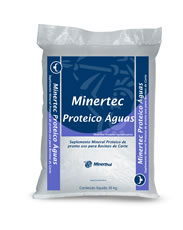
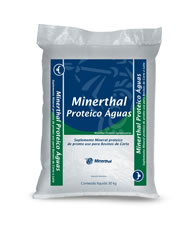
5.4.2017
1

Changed region(s): [[0.2459, 0.2435, 0.8197, 0.8522], [0.4372, 0.7609, 0.6557, 0.8217]]

diff --git a/recria.html b/recria.html
@@ -197,11 +197,11 @@
 				<div class="col50">
 					<img src="cattleout.png"/>
 					<h1 class="titulo1 small">Saida</h1>
-					<input type="number" name="pesosaida" id="pesosaida" value="" class="idade" min="1" onblur="rolatela('#box_custo');$('.titulosaida').text(' • '+($(this).val())+' Kg');"/>
+					<input type="number" name="pesosaida" id="pesosaida" value="" class="idade" min="1" onblur="rolatela('#box_gerar');$('.titulosaida').text(' • '+($(this).val())+' Kg');"/>
 				</div>
 				<div class="clear"></div>	
 			</div>
-			
+			<!--
 			<div id="box_custo">
 				<h1 class="titulo1">Custo</h1>
 				<p>				
@@ -244,7 +244,7 @@
 					
 				</div>
 			</div>	
-			
+			-->
 			<div id="box_gerar">
 				<button id="gera_btn" class="gera_btn">Montar Ciclos</button>
 			</div>
@@ -334,7 +334,7 @@ function plotar(){
 
 		tabela1 = '<div class="outtabela wrapper" id="line_'+$x+'">';
 		tabela1 += '<div class="container">';
-		tabela1 += '<div class="innertabela">';
+		tabela1 += '<div class="innertabela inn'+$add+'">';
 		tabela1 += '<span><h3>Minerthal '+$estrategarecria+'</h3></span>';
 		tabela1 += '<span class="nopadding"><img src="'+(($estrategarecria.replace(/[^\w ]/g, function(char) {return $dict[char] || char;}).replace(' ', '-')).toLowerCase())+'.jpeg" alt="" title=""/></span>';
 		tabela1 += '<span class="divisao mes">'+$mesdoano+'</span>';
@@ -346,7 +346,7 @@ function plotar(){
 		tabela1 += '<span class="divisao">GMD '+$gmd.toFixed(2).replace(".", ",")+' kg/dia</span>';
 		tabela1 += '<span class="divisao evol">'+$evolucao+'</span>';
 		tabela1 += '<span class="impact">Evolução do Ganho<br/><img class="cattle" src="cattle.png"><div class="ganhos">'+$evolucaodeganho.toFixed(2)+'</div>kg</span>';
-		tabela1 += '<span class="blue">Consumo Produto<br/>'+$consumosuplemento.toFixed(2).replace(".", ",")+'g/dia</span>';
+		tabela1 += '<span class="blue">Consumo Produto<br/>'+$consumosuplemento.toFixed(2).replace(".", ",")+'g/dia<input type="hidden" class="u" name="u" value="'+$consumosuplemento+'" /></span>';
 		tabela1 += '<span class="theader">Consumo de Nutrientes via Suplemento</span>';
 		tabela1 += '<span class="divisao">'+$calcio.toFixed(2).replace(".", ",")+'g Ca</span>';
 		tabela1 += '<span class="divisao">'+$fosforo.toFixed(2).replace(".", ",")+'g P</span>';
@@ -428,7 +428,7 @@ function plotar(){
 
 			$grafico[$x].push($evolucaodeganho);	
 
-			tabela2 = '<div class="innertabela">';
+			tabela2 = '<div class="innertabela inn'+$add+'">';
 			tabela2 += '<span><h3>Minerthal '+$estrategarecria+'</h3></span>';
 			tabela2 += '<span class="nopadding"><img src="'+(($estrategarecria.replace(/[^\w ]/g, function(char) {return $dict[char] || char;}).replace(' ', '-')).toLowerCase())+'.jpeg" alt="" title=""/></span>';
 			tabela2 += '<span class="divisao mes">'+$mesdoano+'</span>';
@@ -440,7 +440,7 @@ function plotar(){
 			tabela2 += '<span class="divisao">GMD '+$gmd.toFixed(2).replace(".", ",")+' kg/dia</span>';
 			tabela2 += '<span class="divisao evol">'+$evolucao+'</span>';
 			tabela2 += '<span class="impact">Evolução do Ganho<br/><img class="cattle" src="cattle.png"><div class="ganhos">'+$evolucaodeganho.toFixed(2)+'</div>kg</span>';
-			tabela2 += '<span class="blue">Consumo Produto<br/>'+$consumosuplemento.toFixed(2).replace(".", ",")+'g/dia</span>';
+			tabela2 += '<span class="blue">Consumo Produto<br/>'+$consumosuplemento.toFixed(2).replace(".", ",")+'g/dia<input type="hidden" class="u" name="u" value="'+$consumosuplemento+'" /></span>';
 			tabela2 += '<span class="theader">Consumo de Nutrientes via Suplemento</span>';
 			tabela2 += '<span class="divisao">'+$calcio.toFixed(2).replace(".", ",")+'g Ca</span>';
 			tabela2 += '<span class="divisao">'+$fosforo.toFixed(2).replace(".", ",")+'g P</span>';
@@ -480,13 +480,15 @@ function plotar(){
 		$custodosuplemento = $arroba;
 		$custoengordada = (($rstotal + $custodopasto + $custofinanceirosimples ) / ($diferenca/30));
 		
-		
+		$('#line_'+$x).append('<div id="custototal'+$x+'" class="custototal'+$x+'" style="display:none"></div>');			
 		$('#line_'+$x).append('<div class="clear"></div></div>');
 		if ($('#okcusto').is(":checked")) {	
 			//$('#line_'+$x).append('<p class="custototal"><strong>Custo do Suplemento Total:</strong> R$ '+Number($rstotal).toFixed(2).replace(".", ",")+'<br/><strong>Custo do Suplemento (R$/@engordada)</strong>: R$'+Number($arroba).toFixed(2).replace(".", ",")+'</p>');
 			$('#line_'+$x).append('<p class="custototal"><strong>Custo do Suplemento Total:</strong> R$ '+Number($rstotal).toFixed(2).replace(".", ",")+'<br/><strong>Custo Médio do Suplemento por mês</strong>: R$' + ($rstotal/$add).toFixed(2).replace(".", ",")+'<br/><strong>Custo da @ Engordada Total (Pasto + Suplemento+Financeiro)</strong>: R$' + $custoengordada.toFixed(2).replace(".", ",")+'</p>');
 		}	
 		$('#line_'+$x).append('</div>');
+		
+		$('#line_'+$x).append('<div id="boxcusto"><h1 class="titulo1">Custo</h1><p>Clique no botão para visualizar os custos mensais para o Ciclo acima.<br/>Atenção: Você precisará informar o valor dos produtos para gerar a tabela!</p><button id="gera_btn_custo" class="gera_btn" onClick="gerarCusto('+$x+');">Gerar Custo</button></div>');		
 		//console.log($grafico[$x]);
 		//console.log($custodopasto);	
 		//console.log($custofinanceirosimples);
@@ -563,8 +565,8 @@ function plotar(){
 		
 		tabelahtml = '<div class="outtabela wrapper" id="line_5">';
 		tabelahtml += '<div class="container">';
-		tabelahtml += '<div class="innertabela">';	
-		tabelahtml += '<span><select class="escolhaproduto" name="escolhaproduto"><option value="">PRODUTO</option><option value="Linea 40">Minerthal Linea 40</option><option value="Linea 60">Minerthal Linea 60</option><option value="Engorda MD">Minerthal Engorda MD</option><option value="Terminação MD">Minerthal Terminação MD</option><option value="Proteico Águas">Minertec Proteico Águas</option><option value="Pró-Engorda">Minerthal Pró-Engorda</option><option value="MD Seca">Minerthal MD Seca</option><option value="Minerseca">Minerseca</option><option value="Pró-Águas">Minerthal Pró-Águas</option><option value="Ureia 20">Minerthal Ureia 20</option><option value="Pró-Secas">Minerthal Pró-Secas</option></select></span>';
+		tabelahtml += '<div class="innertabela inn1">';
+		tabelahtml += '<span><select class="escolhaproduto" name="escolhaproduto"><option value="">PRODUTO</option><option value="Linea 40">Minerthal Linea 40</option><option value="Linea 60">Minerthal Linea 60</option><option value="Engorda MD">Minerthal Engorda MD</option><option value="Terminação MD">Minerthal Terminação MD</option><option value="Proteico Águas">Minerthal Proteico Águas</option><option value="Pró-Engorda">Minerthal Pró-Engorda</option><option value="MD Seca">Minerthal MD Seca</option><option value="Minerseca">Minerseca</option><option value="Pró-Águas">Minerthal Pró-Águas</option><option value="Ureia 20">Minerthal Ureia 20</option><option value="Pró-Secas">Minerthal Pró-Secas</option></select><input type="hidden" value="" class="hescolhaproduto"/></span>';
 		tabelahtml += '<span class="nopadding"><img src="" alt="" title=""/></span>';		
 		tabelahtml += '<span class="divisao mes mesdoano" rel="'+$mesentrada+'">'+$mesdoano+'</span>'; //mês do ano: 
 		tabelahtml += '<span class="divisao">'+$periodo+'</span>';	
@@ -576,7 +578,7 @@ function plotar(){
 		tabelahtml += '<span class="divisao">GMD <div class="a11"></div> kg/dia</span>'; //GMD: 
 		tabelahtml += '<span class="divisao evol"><div class="a3"></div></span>'; //Evolução Categoria Animal: 
 		tabelahtml += '<span class="impact">Evolução do Ganho<br/><img class="cattle" src="cattle.png"><div class="ganhos a4" rel=""></div>kg</span>'; //Evolução do Ganho: 
-		tabelahtml += '<span class="blue">Consumo Produto<br/><div class="a5"></div>g/dia</span>'; //Consumo Suplemento (g/dia): 
+		tabelahtml += '<span class="blue">Consumo Produto<br/><div class="a5"></div>g/dia</span><input type="hidden" class="u" name="u" value="" />'; //Consumo Suplemento (g/dia): 
 		tabelahtml += '<span class="theader">Consumo de Nutrientes via Suplemento</span>';		
 		tabelahtml += '<span class="divisao"><div class="a6"></div>g Ca</span>'; //Cálcio (g): 
 		tabelahtml += '<span class="divisao"><div class="a7"></div>g P</span>'; //Fósforo (g): 
@@ -655,6 +657,8 @@ function plotar(){
 					$youcustoengordada = (($sum + $youcustodopasto + $youcustofinanceirosimples ) / ($diferenca/30));
 					$("#line_5 .container").append('<p class="custototal"><strong>Custo do Suplemento Total:</strong> R$ '+$sum.toFixed(2).replace(".", ",")+'<br/><strong>Custo Médio do Suplemento por mês</strong>: R$' + ($sum/$add).toFixed(2).replace(".", ",")+'<br/><strong>Custo do Suplemento (R$/@engordada)</strong>: R$ '+($youcustoengordada).toFixed(2).replace(".", ",")+'</p>');
 				}
+				$('#line_5').append('<div id="custototal5" class="custototal5" style="display:none"></div><div class="clear"></div>');			
+				$('#line_5').append('<div id="boxcusto"><h1 class="titulo1">Custo</h1><p>Clique no botão para visualizar os custos mensais para o Ciclo acima.<br/>Atenção: Você precisará informar o valor dos produtos para gerar a tabela!</p><button id="gera_btn_custo" class="gera_btn" onClick="gerarCusto(5);">Gerar Custo</button></div>');									
 			}
 	
 		});
@@ -688,8 +692,8 @@ function plotar(){
 			$diasnomes = $peso[$mesentrada][2]; //31
 			$periodo = $epoca[$mesentrada-1]; //secas
 	
-			tabelahtml = '<div class="innertabela">';
-			tabelahtml += '<span><select class="escolhaproduto" name="escolhaproduto"><option value="">PRODUTO</option><option value="Linea 40">Minerthal Linea 40</option><option value="Linea 60">Minerthal Linea 60</option><option value="Engorda MD">Minerthal Engorda MD</option><option value="Terminação MD">Minerthal Terminação MD</option><option value="Proteico Águas">Minertec Proteico Águas</option><option value="Pró-Engorda">Minerthal Pró-Engorda</option><option value="MD Seca">Minerthal MD Seca</option><option value="Minerseca">Minerseca</option><option value="Pró-Águas">Minerthal Pró-Águas</option><option value="Ureia 20">Minerthal Ureia 20</option><option value="Pró-Secas">Minerthal Pró-Secas</option></select></span>';
+			tabelahtml = '<div class="innertabela inn'+($add+1)+'">';
+			tabelahtml += '<span><select class="escolhaproduto" name="escolhaproduto"><option value="">PRODUTO</option><option value="Linea 40">Minerthal Linea 40</option><option value="Linea 60">Minerthal Linea 60</option><option value="Engorda MD">Minerthal Engorda MD</option><option value="Terminação MD">Minerthal Terminação MD</option><option value="Proteico Águas">Minerthal Proteico Águas</option><option value="Pró-Engorda">Minerthal Pró-Engorda</option><option value="MD Seca">Minerthal MD Seca</option><option value="Minerseca">Minerseca</option><option value="Pró-Águas">Minerthal Pró-Águas</option><option value="Ureia 20">Minerthal Ureia 20</option><option value="Pró-Secas">Minerthal Pró-Secas</option></select><input type="hidden" value="" class="hescolhaproduto"/></span>';
 			tabelahtml += '<span class="nopadding"><img src="" alt="" title=""/></span>';
 			tabelahtml += '<span class="divisao mes mesdoano" rel="'+$mesentrada+'">'+$mesdoano+'</span>';
 			tabelahtml += '<span class="divisao">'+$periodo+'</span>';	
@@ -701,7 +705,7 @@ function plotar(){
 			tabelahtml += '<span class="divisao">GMD <div class="a11"></div> kg/dia</span>'; //GMD: 
 			tabelahtml += '<span class="divisao evol"><div class="a3"></div></span>';
 			tabelahtml += '<span class="impact">Evolução do Ganho<br/><img class="cattle" src="cattle.png"><div class="ganhos a4" rel=""></div>kg</span>';
-			tabelahtml += '<span class="blue">Consumo Produto<br/><div class="a5"></div>g/dia</span>';
+			tabelahtml += '<span class="blue">Consumo Produto<br/><div class="a5"></div>g/dia</span><input type="hidden" class="u" name="u" value="" />';
 			tabelahtml += '<span class="theader">Consumo de Nutrientes via Suplemento</span>';		
 			tabelahtml += '<span class="divisao"><div class="a6"></div>g Ca</span>'; //Cálcio (g): 
 			tabelahtml += '<span class="divisao"><div class="a7"></div>g P</span>'; //Fósforo (g): 
@@ -792,6 +796,7 @@ $(document).on('change', '.escolhaproduto', function() {
 	$('.a3').last().html($evolucao);
 	$('.a4').last().html($evolucaodeganho.toFixed(2));
 	$('.a5').last().html($consumosuplemento.toFixed(2).replace(".", ","));
+	$('.u').last().val($consumosuplemento);
 	$('.a6').last().html($calcio.toFixed(2).replace(".", ","));
 	$('.a7').last().html($fosforo.toFixed(2).replace(".", ","));
 	$('.a8').last().html($proteinabruta.toFixed(2).replace(".", ","));
@@ -818,6 +823,7 @@ $(document).on('change', '.escolhaproduto', function() {
 	$('.atfosforo').last().addClass("pie"+(Math.floor(($atfosforosup/10))*10));
 	$('.atenergia').last().addClass("pie"+(Math.floor(($atenergiasup/10))*10));
 	$('.nopadding img').last().attr("src",(($estrategarecria.replace(/[^\w ]/g, function(char) {return $dict[char] || char;}).replace(' ', '-')).toLowerCase())+".jpeg");
+	$('.hescolhaproduto').last().val($(this).val());
 
 });
 
@@ -986,6 +992,99 @@ $('#chart3').empty();
 location.reload();
 $(document).scrollTop(0);
 })
+
+function gerarCusto(wh) {
+	$produtoarray = {};
+	$nomedoproduto = [];
+	$valordoproduto = [];
+	
+	var numItems = $('#line_'+wh+' .container .innertabela').length; 
+	console.log(numItems);
+	
+	for ($i = 1; $i < (numItems+1); $i++) { 
+		$v = ($('#line_'+wh+' .container .inn'+$i+' span h3').html());
+		
+		if (wh == 5) {
+			$v = ($('#line_5 .inn'+$i+' .hescolhaproduto').val());
+		}
+		
+		$nomedoproduto.push($v);	
+	}
+	
+	console.log($nomedoproduto);
+
+	$nomedoproduto = [ ...new Set($nomedoproduto) ];	
+
+	var arrayLength = $nomedoproduto.length;
+	for (var i = 0; i < arrayLength; i++) {		
+		$produtoarray[$nomedoproduto[i]] = prompt("Informe o preço para Minerthal "+$nomedoproduto[i]+": R$ ").replace(",", ".");
+	}
+	
+	$ocustopasto = prompt("Informe o Custo do Pasto (R$/mês)").replace(",", ".");
+	$ovalordeentrada = prompt("Valor de Entrada (R$)").replace(",", ".");
+	
+
+	console.log($produtoarray);
+	tabela3 = '';
+	$qtdiastotal = 0;
+	$rstotal = 0;
+	
+	for ($i = 1; $i < (numItems+1); $i++) { 
+		
+		$estrategarecria = ($('#line_'+wh+' .container .inn'+$i+' span h3').html()); //nome do produto
+		
+		if (wh == 5) {
+			$estrategarecria = ($('#line_5 .inn'+$i+' .hescolhaproduto').val());
+		}
+		
+		
+		$v2 = $produtoarray[$estrategarecria];
+		
+		$v3 = ($('#line_'+wh+' .container .inn'+$i+' input.u').val());
+		console.log($v3);
+		
+		$v4 = ($('#line_'+wh+' .container .inn'+$i+' span.mes').html());
+		$dias = 30;
+		if ($v4 == 'janeiro' || $v4 == 'março' || $v4 == 'maio' || $v4 == 'julho' || $v4 == 'agosto' || $v4 == 'outubro' || $v4 == 'dezembro') { $dias = 31; }
+		if ($v4 == 'fevereiro') { $dias = 28;}
+		console.log($v4);
+		$qtdiastotal = ($qtdiastotal + $dias);
+		
+		$kgmes = $v3/$dias;
+		
+		$rsmes = ($v2/30*$v3/1000)*$dias;
+		
+		$rstotal = ($rstotal + $rsmes);
+		
+		
+		tabela3 += '<div class="innertabela inn'+$i+'">';
+		tabela3 += '<span class="theader" style="border-top:10px solid #d3af8b">ESTRATÉGIA<br/>'+$estrategarecria+'<br/>Valor: R$ '+$v2.replace(".", ",")+'</span>';
+		tabela3 += '<span>Consumo: '+$kgmes.toFixed(2).replace(".", ",")+' kg/mês<br/>Custo: '+Number($rsmes).toFixed(2).replace(".", ",")+' R$ /mês</span>';
+		tabela3 += '</div>';
+	}
+	
+	$arroba = ($rstotal/($diferenca/30));
+	console.log($arroba);
+	$custodopasto = (Number($ocustopasto * $qtdiastotal) / 30.5);
+	console.log($custodopasto);
+	$custofinanceirosimples = $ovalordeentrada * numItems * 0.01;
+	console.log($custofinanceirosimples);
+	$custodosuplemento = $arroba;
+	console.log($custodosuplemento);
+	$custoengordada = (($rstotal + $custodopasto + $custofinanceirosimples ) / ($diferenca/30));
+	console.log($custoengordada);
+	
+	tabela3 += '<div class="clear"></div>';
+	tabela3 += '<p class="custototal"><strong>Custo do Suplemento Total:</strong> R$ '+Number($rstotal).toFixed(2).replace(".", ",")+'<br/><strong>Custo Médio do Suplemento por mês</strong>: R$' + ($rstotal/numItems).toFixed(2).replace(".", ",")+'<br/><strong>Custo da @ Engordada Total (Pasto + Suplemento+Financeiro)</strong>: R$' + $custoengordada.toFixed(2).replace(".", ",")+'</p>';
+		
+		
+    $('#custototal'+wh).width(($('#line_'+wh+' .innertabela').length)*200);
+	$('#custototal'+wh).append(tabela3);
+
+	$('#line_'+wh+' #boxcusto').hide();
+	$('#custototal'+wh).show();
+	
+}
 
 </script>
 
